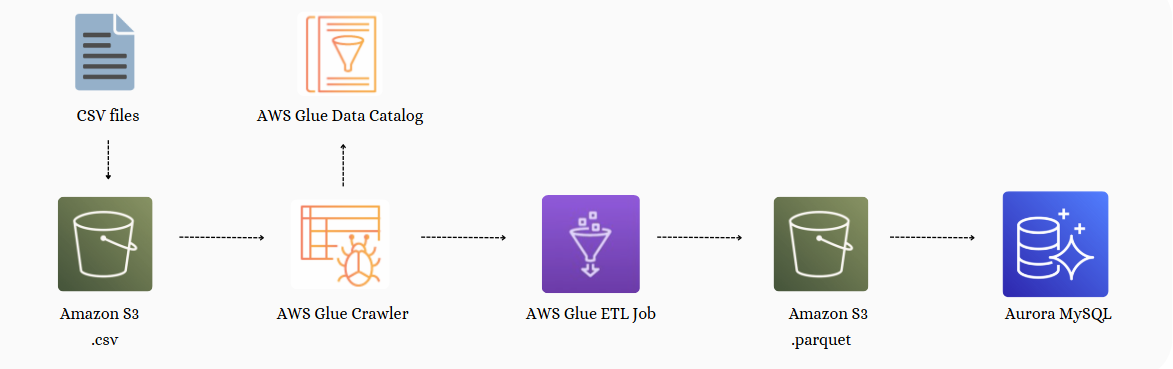
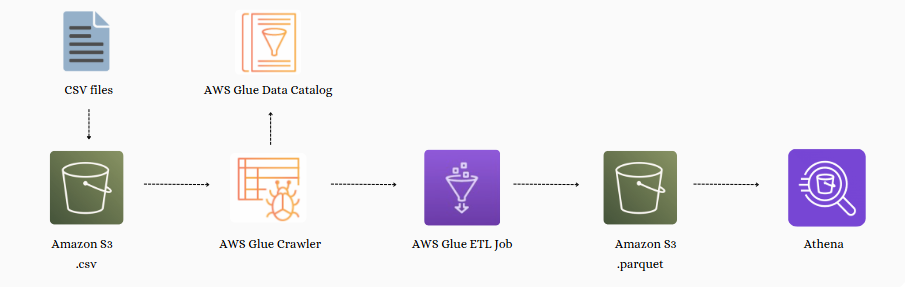
feat: update read me

diff --git a/README.md b/README.md
@@ -1,6 +1,6 @@
-# ETL with AWS Glue, S3, Aurora and Terraform
+# ETL with AWS Glue, S3, Athena and Terraform
 
-This project applies IaC with Terraform to manage the infrastructure for an ETL pipeline, processing CSV data using AWS Glue and transferring it from S3 to Aurora MySQL.
+This project applies IaC with Terraform to manage the infrastructure for an ETL pipeline, processing CSV data using AWS Glue and enabling data consumption directly from S3 using Amazon Athena.
 
 ---
 
@@ -16,7 +16,7 @@ This project applies IaC with Terraform to manage the infrastructure for an ETL 
 
 - **Uploading Files:** CSV files from the `mock_data/` directory are uploaded to the source bucket.
 
-- **Configuring IAM Roles:** Permissions are set up to allow Glue and Aurora to interact with S3.
+- **Configuring IAM Roles:** Permissions are set up to allow Glue to interact with S3.
 
 - **Setting Up AWS Glue:** 
   - A database catalogs the data schema.
@@ -25,7 +25,7 @@ This project applies IaC with Terraform to manage the infrastructure for an ETL 
 
 - **Configuring Triggers:** Automates workflows to run on file uploads to the source bucket.
 
-- **Setting Up Aurora MySQL:** A database and table are provisioned to manage Parquet data in S3.
+- **Setting Up Athena:** A query is created in Amazon Athena to directly consume and analyze Parquet data stored in S3.
 
 - **Implementing GitHub Actions:** CI/CD pipelines automate Terraform deployments for efficient infrastructure management.
 
@@ -33,7 +33,7 @@ This project applies IaC with Terraform to manage the infrastructure for an ETL 
 
 ---
 
-## How to Set Up
+## How to run the project
 
 ### Local Setup
 1. Clone the Repository
@@ -61,6 +61,8 @@ This project applies IaC with Terraform to manage the infrastructure for an ETL 
     terraform init
     terraform apply
    ```
+5. Query transformed data with Athena
+   <img src="img/athena.png">
 
 ---
 
